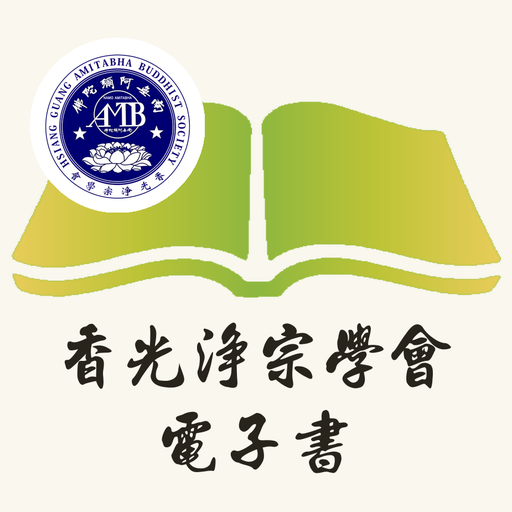
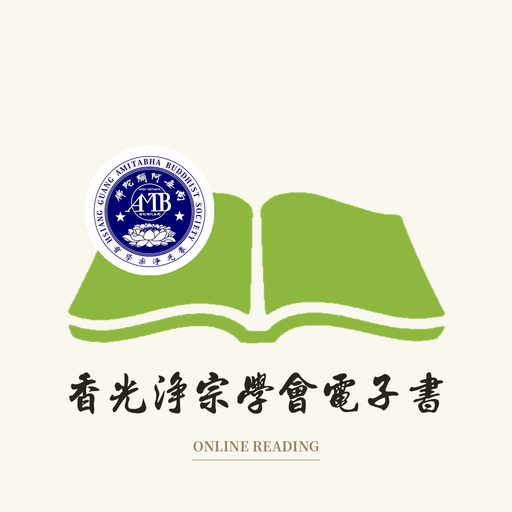
更新總覽頁與圖示

diff --git a/index.html b/index.html
@@ -1,0 +1,341 @@
+<!DOCTYPE html>
+<html lang="zh-Hant">
+<head>
+<meta charset="UTF-8">
+<meta name="viewport" content="width=device-width, initial-scale=1.0">
+<title>香光淨宗學會電子書</title>
+<link rel="manifest" href="manifest.json">
+<link rel="icon" href="icon-192.png">
+<link rel="apple-touch-icon" href="icon-192.png">
+<meta name="theme-color" content="#8DB73F">
+<style>
+  @import url('https://fonts.googleapis.com/css2?family=Noto+Serif+TC:wght@400;500;700&family=Noto+Sans+TC:wght@300;400;500&display=swap');
+
+  :root{
+    --cream: #FAF7EE;
+    --cream-deep: #F1EBD9;
+    --ink: #2B2A25;
+    --ink-soft: #6b6355;
+    --green: #8DB73F;
+    --green-deep: #5f8a29;
+    --line: rgba(43,42,37,0.12);
+  }
+  *{ box-sizing:border-box; margin:0; padding:0; }
+  html,body{ background: var(--cream); color: var(--ink); font-family:'Noto Sans TC', sans-serif; }
+
+  .wrap{ max-width: 880px; margin:0 auto; padding: 0 20px 80px; }
+
+  /* ---------------- Header banner ---------------- */
+  header.banner{
+    padding-top: 56px;
+    padding-bottom: 36px;
+    text-align:center;
+  }
+  .banner-img{
+    display:block;
+    width: 240px;
+    height: auto;
+    margin: 0 auto;
+  }
+  .subtitle{
+    font-size: 12px;
+    letter-spacing: 0.28em;
+    color: var(--ink-soft);
+    margin-top: 10px;
+  }
+
+  /* ---------------- Intro / search note ---------------- */
+  .intro{
+    text-align:center;
+    font-size: 13px;
+    color: var(--ink-soft);
+    line-height:1.8;
+    padding: 18px 10px 8px;
+    border-top: 1px solid var(--line);
+    margin-top: 18px;
+  }
+
+  /* ---------------- Category sections ---------------- */
+  .cat-group{ margin-top: 46px; }
+  .cat-group-title{
+    font-family:'Noto Serif TC', serif;
+    font-weight:700;
+    font-size: 22px;
+    color: var(--green-deep);
+    display:flex;
+    align-items:baseline;
+    gap:10px;
+    margin-bottom: 18px;
+  }
+  .cat-group-title .code{
+    font-size:13px;
+    font-weight:400;
+    color: var(--ink-soft);
+    letter-spacing:0.05em;
+  }
+
+  .subcat{ margin-bottom: 28px; }
+  .subcat-title{
+    font-family:'Noto Serif TC', serif;
+    font-weight:500;
+    font-size: 16px;
+    color: var(--ink);
+    padding: 8px 0;
+    border-bottom: 1px solid var(--line);
+    margin-bottom: 6px;
+    display:flex;
+    justify-content:space-between;
+  }
+  .subcat-title .code{ font-size:12px; color:var(--ink-soft); font-weight:400; }
+
+  ul.book-list{ list-style:none; }
+  ul.book-list li{
+    display:flex;
+    align-items:baseline;
+    justify-content:space-between;
+    gap: 14px;
+    padding: 9px 4px;
+    font-size: 14px;
+    border-bottom: 1px dotted var(--line);
+  }
+  ul.book-list li .name{ color: var(--ink); flex:1; line-height:1.6; }
+  ul.book-list li .code{ font-size:11px; color: var(--ink-soft); white-space:nowrap; }
+  ul.book-list li a.read-link{
+    flex-shrink:0;
+    font-size:12px;
+    color:#fff;
+    background: var(--green);
+    padding: 4px 12px;
+    border-radius: 100px;
+    text-decoration:none;
+    white-space:nowrap;
+  }
+  ul.book-list li a.read-link:hover{ background: var(--green-deep); }
+  ul.book-list li .pending{
+    flex-shrink:0;
+    font-size:12px;
+    color: var(--ink-soft);
+    border:1px solid var(--line);
+    padding: 4px 12px;
+    border-radius:100px;
+    white-space:nowrap;
+  }
+
+  /* ---------------- Featured section ---------------- */
+  .featured{
+    margin-top: 40px;
+    background: var(--cream-deep);
+    border-radius: 14px;
+    padding: 22px 22px;
+    display:flex;
+    align-items:center;
+    gap: 18px;
+  }
+  .featured .tag{
+    font-size:11px;
+    letter-spacing:0.15em;
+    color: var(--green-deep);
+    margin-bottom:4px;
+  }
+  .featured .fname{
+    font-family:'Noto Serif TC', serif;
+    font-weight:700;
+    font-size:18px;
+  }
+  .featured a.read-link{
+    margin-left:auto;
+    flex-shrink:0;
+    font-size:13px;
+    color:#fff;
+    background: var(--green);
+    padding: 8px 18px;
+    border-radius:100px;
+    text-decoration:none;
+  }
+
+  footer{
+    text-align:center;
+    margin-top: 60px;
+    padding-top: 22px;
+    border-top:1px solid var(--line);
+    font-size:11px;
+    color: var(--ink-soft);
+    letter-spacing:0.05em;
+  }
+</style>
+</head>
+<body>
+<div class="wrap">
+
+  <header class="banner">
+    <img class="banner-img" src="assets/banner.png" alt="香光淨宗學會電子書">
+    <div class="subtitle">ONLINE READING · 電子書一覽表</div>
+  </header>
+
+  <div class="intro">
+    以下法寶均提供線上翻頁閱讀與下載，取代原本平台，網址由本會自行維護。<br>
+    尚未完成線上版的書目會標示「準備中」，陸續更新。
+  </div>
+
+  <div class="featured">
+    <div>
+      <div class="tag">精選 · 已上線</div>
+      <div class="fname">高僧阿呆魚</div>
+    </div>
+    <a class="read-link" href="book.html">線上閱讀</a>
+  </div>
+
+  <div class="cat-group">
+<div class="cat-group-title">淨土典籍 <span class="code">A</span></div>
+<div class="subcat">
+<div class="subcat-title">淨土合刊 <span class="code">Aa</span></div>
+<ul class="book-list">
+<li><span class="code">Aa01</span><span class="name">淨土五經讀本(淨空法師選定)</span><span class="pending">準備中</span></li>
+<li><span class="code">Aa02</span><span class="name">淨土五經一論</span><span class="pending">準備中</span></li>
+</ul>
+</div>
+<div class="subcat">
+<div class="subcat-title">阿彌陀經 <span class="code">Ab</span></div>
+<ul class="book-list">
+<li><span class="code">Ab0101</span><span class="name">佛說阿彌陀經</span><span class="pending">準備中</span></li>
+<li><span class="code">Ab0102</span><span class="name">佛說阿彌陀經摘注接蒙義蘊合刊(李炳南老居士講述)</span><span class="pending">準備中</span></li>
+<li><span class="code">Ab0103</span><span class="name">佛說阿彌陀經通贊疏(窺基撰)</span><span class="pending">準備中</span></li>
+<li><span class="code">Ab0104</span><span class="name">彌陀圓中鈔(沙門傳燈鈔)</span><span class="pending">準備中</span></li>
+<li><span class="code">Ab0105</span><span class="name">阿彌陀經疏鈔演義(淨空法師)</span><span class="pending">準備中</span></li>
+<li><span class="code">Ab0201</span><span class="name">彌陀要解便蒙鈔(蕅益大師要解)</span><span class="pending">準備中</span></li>
+<li><span class="code">Ab0202</span><span class="name">佛說阿彌陀經要解(藕益大師)</span><span class="pending">準備中</span></li>
+<li><span class="code">Ab0203</span><span class="name">佛說阿彌陀經要解講記</span><span class="pending">準備中</span></li>
+<li><span class="code">Ab0204</span><span class="name">佛說阿彌陀經要解講義(藕益大師要解)</span><span class="pending">準備中</span></li>
+<li><span class="code">Ab0205</span><span class="name">彌陀要解研習報告(淨空老法師編述)</span><span class="pending">準備中</span></li>
+</ul>
+</div>
+<div class="subcat">
+<div class="subcat-title">無量壽經 <span class="code">Ac</span></div>
+<ul class="book-list">
+<li><span class="code">Ac01</span><span class="name">佛說大乘無量壽莊嚴清淨平等覺經會集本(夏蓮居)</span><span class="pending">準備中</span></li>
+<li><span class="code">Ac02</span><span class="name">佛說大乘無量壽莊嚴清淨平等覺經會集本(雪盧老人注)</span><span class="pending">準備中</span></li>
+<li><span class="code">Ac03</span><span class="name">佛說大乘無量壽莊嚴清淨平等覺經卷首(淨空法師述)</span><span class="pending">準備中</span></li>
+<li><span class="code">Ac04</span><span class="name">佛說大乘無量壽莊嚴清淨平等覺經卷首(淨空法師述)更新版</span><span class="pending">準備中</span></li>
+<li><span class="code">Ac04b</span><span class="name">佛說大乘無量壽莊嚴清淨平等覺經科會(淨空老法師著)</span><span class="pending">準備中</span></li>
+<li><span class="code">Ac05</span><span class="name">淨土大經科註參考資料【上冊】(上勝下妙法師)</span><span class="pending">準備中</span></li>
+<li><span class="code">Ac06</span><span class="name">淨土大經科註參考資料【下冊】(上勝下妙法師)</span><span class="pending">準備中</span></li>
+<li><span class="code">Ac07</span><span class="name">佛說大乘無量壽莊嚴清淨平等覺經科註【上冊】(淨空法師科判‧黃念祖老居士註解)</span><span class="pending">準備中</span></li>
+<li><span class="code">Ac08</span><span class="name">佛說大乘無量壽莊嚴清淨平等覺經科註【下冊】(淨空法師科判‧黃念祖老居士註解)</span><span class="pending">準備中</span></li>
+<li><span class="code">Ac09</span><span class="name">漢譯無量壽經會譯對照修訂版(林祺安編)</span><span class="pending">準備中</span></li>
+<li><span class="code">Ac10</span><span class="name">無量壽經義疏‧佛說阿彌陀經義記(釋吉藏撰)</span><span class="pending">準備中</span></li>
+<li><span class="code">Ac11</span><span class="name">大乘無量壽經菁華(淨空老法師講述)</span><span class="pending">準備中</span></li>
+<li><span class="code">Ac12</span><span class="name">佛說大乘無量壽莊嚴清淨平等覺經解(黃念祖居士著)</span><span class="pending">準備中</span></li>
+<li><span class="code">Ac13</span><span class="name">佛說無量壽經義疏(慧遠撰疏)</span><span class="pending">準備中</span></li>
+<li><span class="code">Ac14</span><span class="name">大乘無量壽莊嚴清淨平等覺經親聞記</span><span class="pending">準備中</span></li>
+<li><span class="code">Ac15</span><span class="name">無量壽經起信論(彭際清居士述)</span><span class="pending">準備中</span></li>
+<li><span class="code">Ac16</span><span class="name">大乘無量壽經簡註易解</span><span class="pending">準備中</span></li>
+<li><span class="code">Ac17</span><span class="name">阿彌陀佛48願易解/極樂世界29種莊嚴合刊(淨空老法師述)</span><span class="pending">準備中</span></li>
+</ul>
+</div>
+<div class="subcat">
+<div class="subcat-title">觀無量壽經 <span class="code">Ad</span></div>
+<ul class="book-list">
+<li><span class="code">Ad01</span><span class="name">佛說觀無量壽佛經(彊良耶舍譯)</span><span class="pending">準備中</span></li>
+<li><span class="code">Ad02</span><span class="name">觀經四帖疏(善導大師)</span><span class="pending">準備中</span></li>
+<li><span class="code">Ad03</span><span class="name">佛說觀無量壽佛經直指疏(沙門灌頂續法述疏)</span><span class="pending">準備中</span></li>
+<li><span class="code">Ad04</span><span class="name">觀無量壽佛經疏精華</span><span class="pending">準備中</span></li>
+<li><span class="code">Ad05</span><span class="name">佛說觀無量壽佛經義疏(隋‧慧遠撰)</span><span class="pending">準備中</span></li>
+<li><span class="code">Ad06</span><span class="name">佛說觀無量壽佛經義疏正觀記(戒度法師記)</span><span class="pending">準備中</span></li>
+<li><span class="code">Ad07</span><span class="name">佛說觀無量壽佛經疏</span><span class="pending">準備中</span></li>
+<li><span class="code">Ad08</span><span class="name">佛說觀無量壽佛經疏鈔演義(諦閑老法師)</span><span class="pending">準備中</span></li>
+<li><span class="code">Ad09</span><span class="name">觀經智者疏妙宗鈔(智者大師疏‧知禮法師鈔)</span><span class="pending">準備中</span></li>
+<li><span class="code">Ad10</span><span class="name">觀無量壽佛經疏上品上生章講記/大勢至菩薩念佛圓通章親聞記合刊(淨空法師講述)</span><span class="pending">準備中</span></li>
+</ul>
+</div>
+<div class="subcat">
+<div class="subcat-title">普賢行願品 <span class="code">Ae</span></div>
+<ul class="book-list">
+<li><span class="code">Ae0201</span><span class="name">《四十華嚴》第一冊卷1-卷10(三藏法師譯)</span><span class="pending">準備中</span></li>
+<li><span class="code">Ae0202</span><span class="name">《四十華嚴》第二冊卷11-卷20(三藏法師譯)</span><span class="pending">準備中</span></li>
+<li><span class="code">Ae0203</span><span class="name">《四十華嚴》第三冊卷21-卷30(三藏法師譯)</span><span class="pending">準備中</span></li>
+<li><span class="code">Ae0204</span><span class="name">《四十華嚴》第四冊卷31-卷40(三藏法師)</span><span class="pending">準備中</span></li>
+<li><span class="code">Ae0301</span><span class="name">普賢行願品別行疏鈔(清涼國師疏‧圭夆大師鈔)</span><span class="pending">準備中</span></li>
+<li><span class="code">Ae0302</span><span class="name">普賢行願品輯要疏(釋諦閑法師述)</span><span class="pending">準備中</span></li>
+<li><span class="code">Ae0303</span><span class="name">普賢大士行願的啟示(淨空老法師述)</span><span class="pending">準備中</span></li>
+</ul>
+</div>
+<div class="subcat">
+<div class="subcat-title">大勢至菩薩念佛圓通章 <span class="code">Af</span></div>
+<ul class="book-list">
+<li><span class="code">Af01</span><span class="name">大勢至菩薩念佛圓通章研習報告講義(淨空老和尚編述)</span><span class="pending">準備中</span></li>
+<li><span class="code">Af02</span><span class="name">大勢至菩薩念佛圓通章疏鈔(續法法師著)</span><span class="pending">準備中</span></li>
+</ul>
+</div>
+<div class="subcat">
+<div class="subcat-title">往生論 <span class="code">Ag</span></div>
+<ul class="book-list">
+<li><span class="code">Ag01</span><span class="name">往生論輯注(曇鸞大師)</span><span class="pending">準備中</span></li>
+</ul>
+</div>
+</div>
+<div class="cat-group">
+<div class="cat-group-title">其他經論 <span class="code">B</span></div>
+<div class="subcat">
+<div class="subcat-title">華嚴經 <span class="code">Ba</span></div>
+<ul class="book-list">
+<li><span class="code">Ba0101</span><span class="name">八十華嚴經第一冊(卷一~十)</span><span class="pending">準備中</span></li>
+<li><span class="code">Ba0102</span><span class="name">八十華嚴經第二冊(卷十一~廿)</span><span class="pending">準備中</span></li>
+<li><span class="code">Ba0103</span><span class="name">八十華嚴經第三冊(卷廿一~卅)</span><span class="pending">準備中</span></li>
+<li><span class="code">Ba0104</span><span class="name">八十華嚴經第四冊(卷卅一~四十)</span><span class="pending">準備中</span></li>
+<li><span class="code">Ba0105</span><span class="name">八十華嚴經第五冊(卷四一~五十)</span><span class="pending">準備中</span></li>
+<li><span class="code">Ba0106</span><span class="name">八十華嚴經第六冊(卷五一~六十)</span><span class="pending">準備中</span></li>
+<li><span class="code">Ba0107</span><span class="name">八十華嚴經第七冊(卷六一~七十)</span><span class="pending">準備中</span></li>
+<li><span class="code">Ba0108</span><span class="name">八十華嚴經第八冊(卷七一~八十)</span><span class="pending">準備中</span></li>
+<li><span class="code">Ba0201</span><span class="name">華嚴經淨行品-寒山詩合刊</span><span class="pending">準備中</span></li>
+<li><span class="code">Ba0202</span><span class="name">脩華嚴奧旨妄盡還源觀(賢首國師)</span><span class="pending">準備中</span></li>
+<li><span class="code">Ba0203</span><span class="name">華嚴念佛三昧論講記</span><span class="pending">準備中</span></li>
+</ul>
+</div>
+<div class="subcat">
+<div class="subcat-title">楞嚴經 <span class="code">Bb</span></div>
+<ul class="book-list">
+<li><span class="code">Bb01</span><span class="name">大佛頂首楞嚴經清淨明誨章講記(淨空法師)</span><span class="pending">準備中</span></li>
+<li><span class="code">Bb02</span><span class="name">大佛頂首楞嚴經講義五十陰魔章(圓瑛法師)</span><span class="pending">準備中</span></li>
+</ul>
+</div>
+<div class="subcat">
+<div class="subcat-title">金剛經 <span class="code">Bc</span></div>
+<ul class="book-list">
+<li><span class="code">Bc01</span><span class="name">金剛經講義節要(淨空法師節錄)</span><span class="pending">準備中</span></li>
+<li><span class="code">Bc02</span><span class="name">金剛般若研習報告(淨空老法師講述)</span><span class="pending">準備中</span></li>
+<li><span class="code">Bc03</span><span class="name">從金剛經談到無量壽經(黃念祖居士)</span><span class="pending">準備中</span></li>
+<li><span class="code">Bc04</span><span class="name">金剛般若波羅蜜經(鳩摩羅什譯‧江味農校)</span><span class="pending">準備中</span></li>
+</ul>
+</div>
+<div class="subcat">
+<div class="subcat-title">心經 <span class="code">Bd</span></div>
+<ul class="book-list">
+<li><span class="code">Bd01</span><span class="name">般若波羅蜜多心經詮注(周止菴居士)</span><span class="pending">準備中</span></li>
+<li><span class="code">Bd02</span><span class="name">心經講記(淨空法師講述)</span><span class="pending">準備中</span></li>
+</ul>
+</div>
+<div class="subcat">
+<div class="subcat-title">地藏本願經 <span class="code">Be</span></div>
+<ul class="book-list">
+<li><span class="code">Be01</span><span class="name">地藏菩薩本願經(三藏沙門實叉難陀譯)</span><span class="pending">準備中</span></li>
+<li><span class="code">Be02</span><span class="name">地藏菩薩本願經講記-上冊(淨空法師講述)</span><span class="pending">準備中</span></li>
+<li><span class="code">Be03</span><span class="name">地藏菩薩本願經講記-下冊(淨空法師講述)</span><span class="pending">準備中</span></li>
+<li><span class="code">Be04</span><span class="name">地藏本願經講記(聖一老法師述)</span><span class="pending">準備中</span></li>
+<li><span class="code">Be05</span><span class="name">地藏經講記(淨空法師講述)</span><span class="pending">準備中</span></li>
+<li><span class="code">Be06</span><span class="name">地藏經的啟示‧超度的理論和事實合刊(淨空老法師)</span><span class="pending">準備中</span></li>
+</ul>
+</div>
+<div class="subcat">
+<div class="subcat-title">菩薩戒 <span class="code">Bf</span></div>
+<ul class="book-list">
+<li><span class="code">Bf01</span><span class="name">佛說梵網經菩薩戒本解(李圓義居士彙編)</span><span class="pending">準備中</span></li>
+<li><span class="code">Bf02</span><span class="name">梵網經菩薩戒本(鳩摩羅什譯)</span><span class="pending">準備中</span></li>
+<li><span class="code">Bf03</span><span class="name">菩薩戒本經出地持戒品中(曇無懺法師譯)</span><span class="pending">準備中</span></li>
+</ul>
+</div>
+</div>
+
+  <footer>香光淨宗學會 · 法寶園地電子書 &nbsp;|&nbsp; 本頁面自行架設，取代原付費平台</footer>
+</div>
+</body>
+</html>